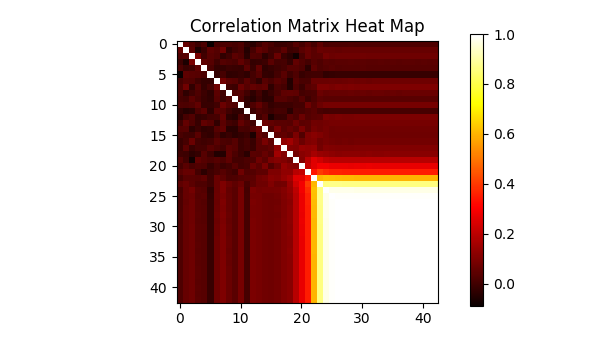
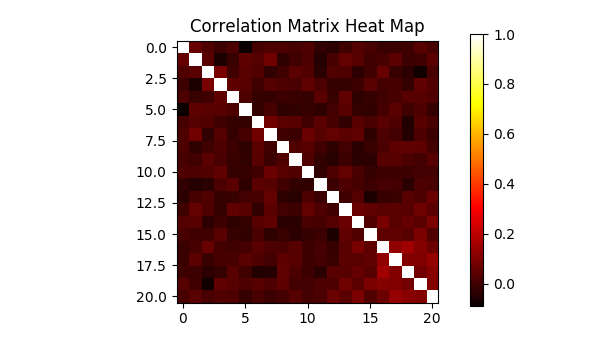
ran code with ell truncated at 5000

Changed region(s): [[0.21, 0.1176, 0.75, 0.9706]]

diff --git a/Parallel Gaussianization/Normal Maps/SNR_norm.py b/Parallel Gaussianization/Normal Maps/SNR_norm.py
@@ -94,7 +94,7 @@ powspecs = np.array([r[1] for r in results])
 powermean = np.mean(powspecs, axis = 0) 
 
 cut = np.argmax(ells >= 5000)
-tpowspecs = powspecs[:cut]
+tpowspecs = np.array([p[:cut] for p in powspecs])
 tpowermean = powermean[:cut]
 
 covar = np.mat(np.cov(tpowspecs, rowvar = 0))
